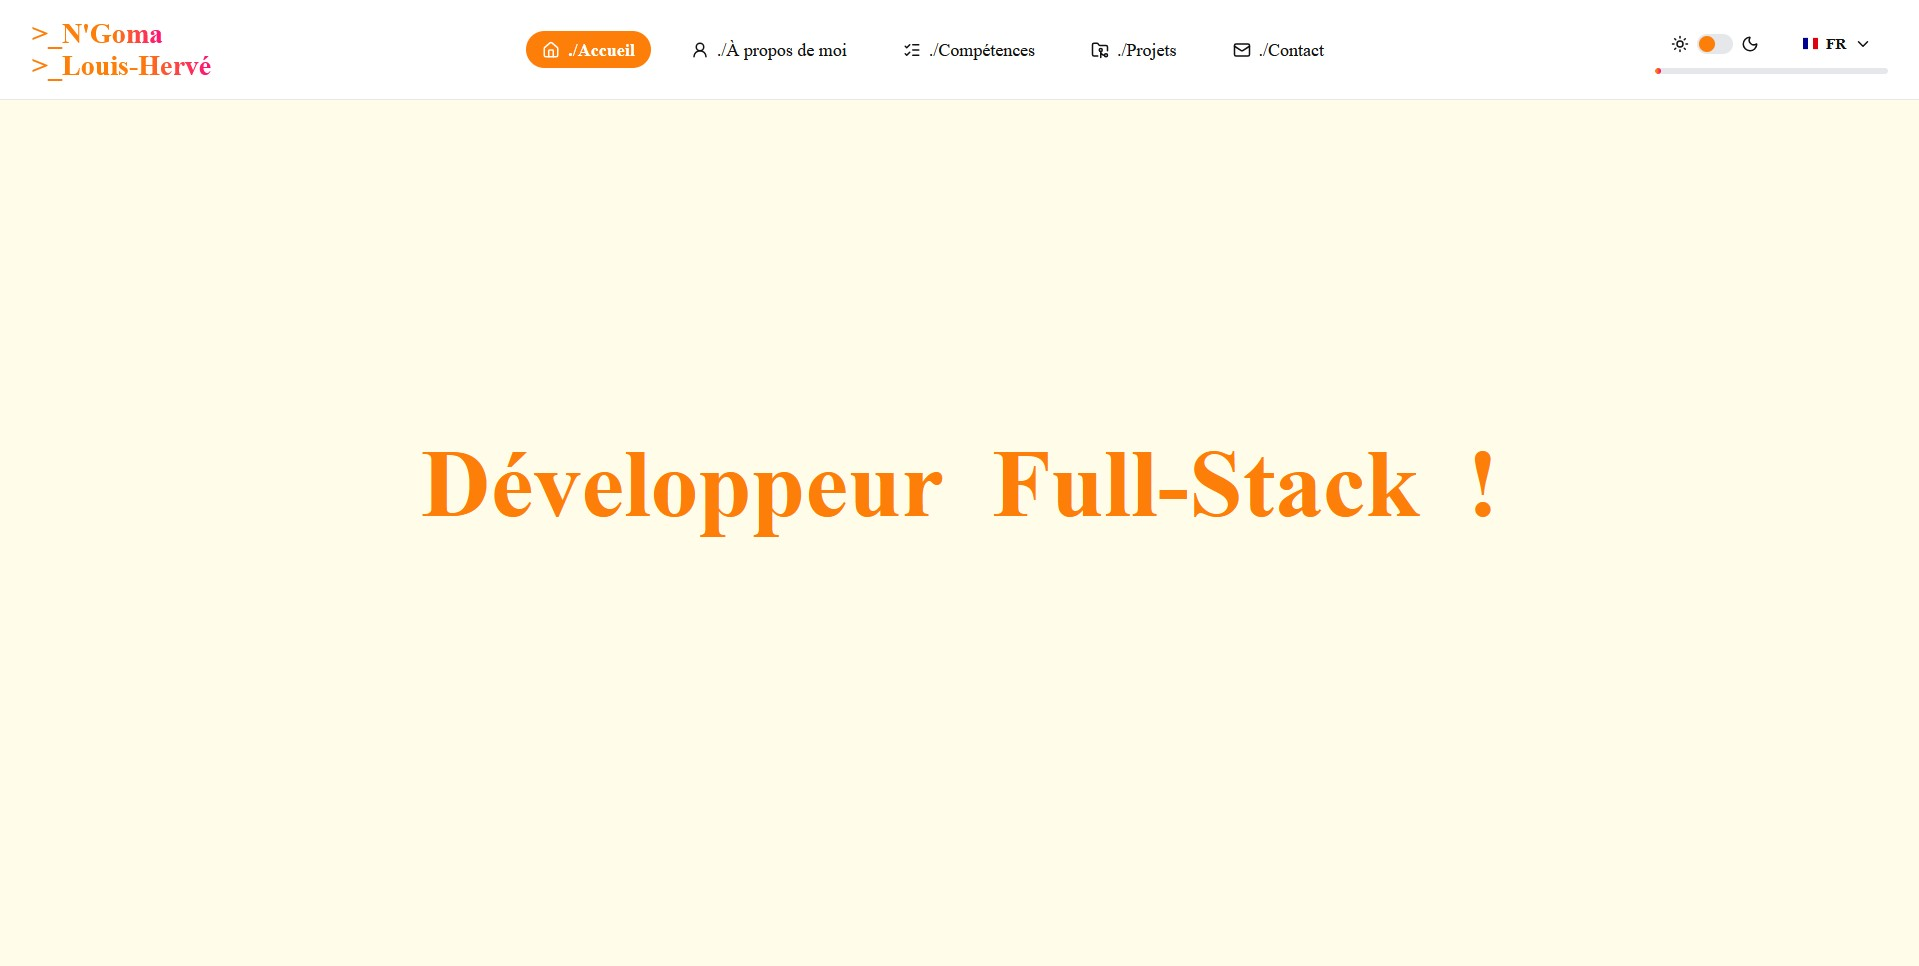
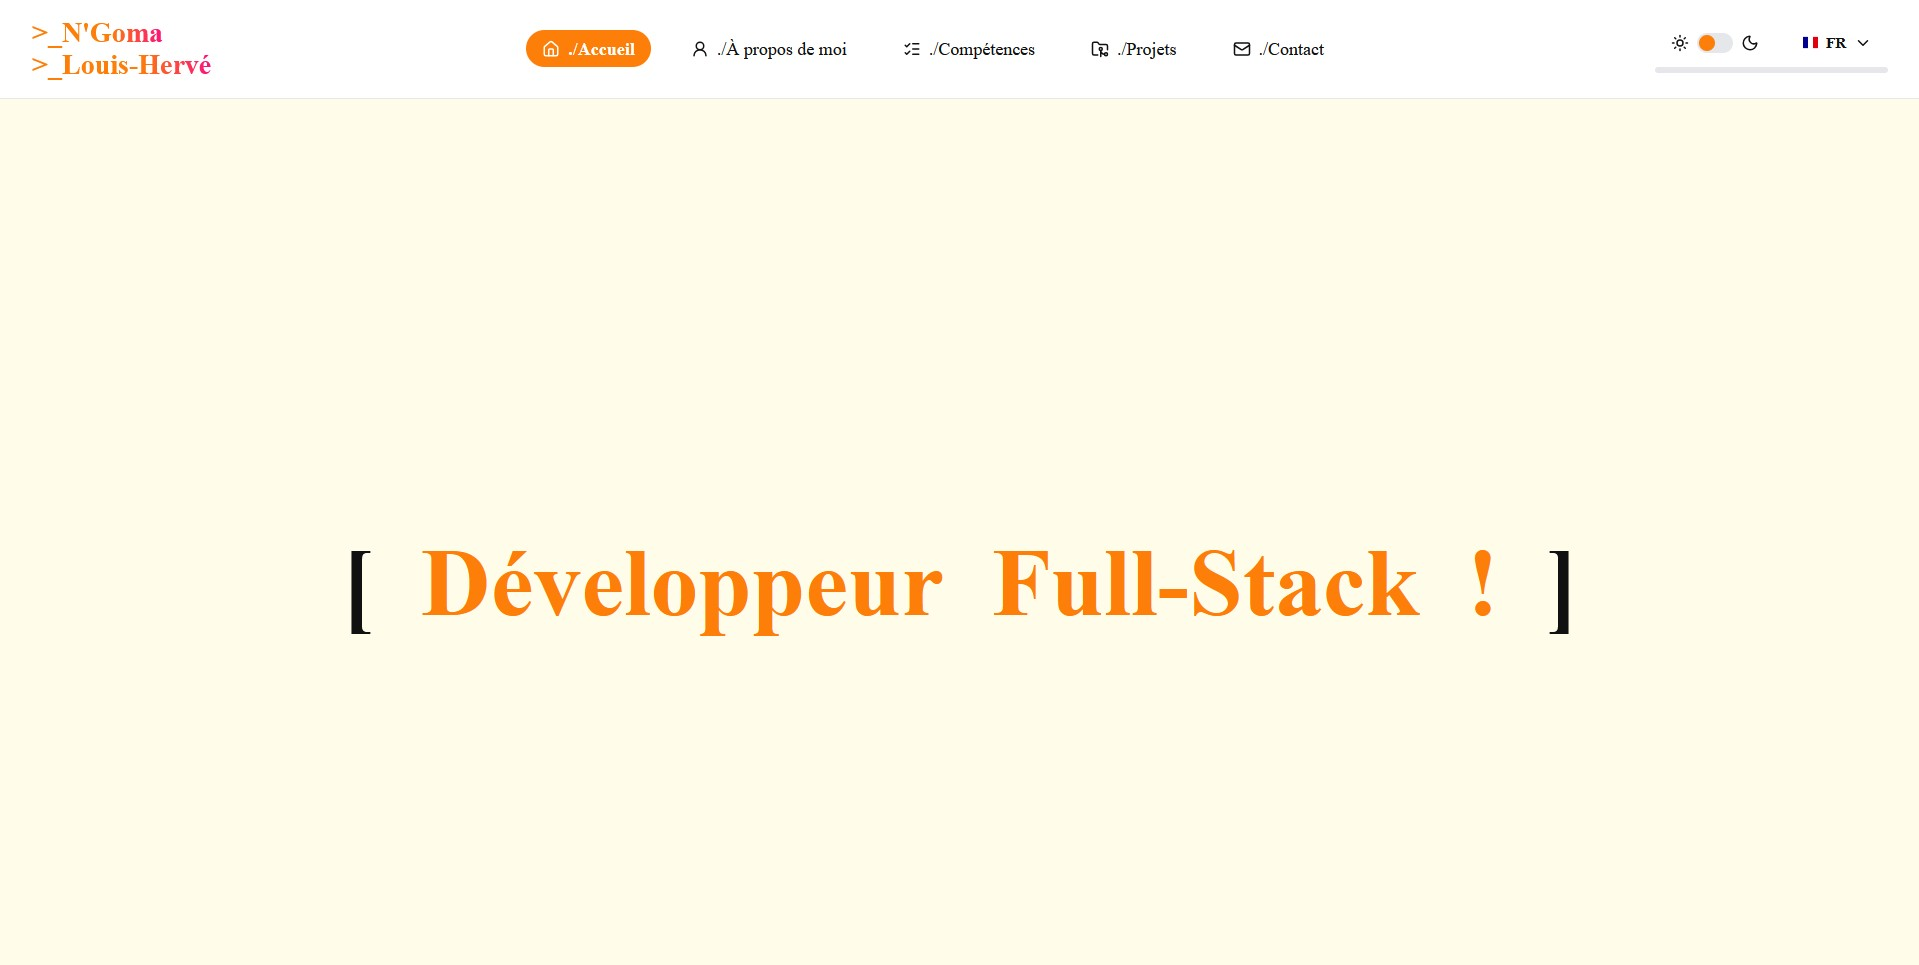
docs: README, CV par langue et correction des redirections Vercel

diff --git a/src/sections/ContactSection.tsx b/src/sections/ContactSection.tsx
@@ -25,19 +25,22 @@ export const ContactSection = () => {
 
 	const translateError = (key?: string) => (key ? t(key, CONTACT_LIMITS) : undefined);
 
-	const markStarted = () => {
-		if (startedAt.current === null) startedAt.current = Date.now();
+	const clearStatus = () => {
 		setStatus((prev) => (prev === "sending" ? prev : "idle"));
 	};
 
+	const handleFormInput = () => {
+		if (startedAt.current === null) startedAt.current = Date.now();
+	};
+
 	const updateField = (field: keyof ContactFormData) => (value: string) => {
-		markStarted();
+		clearStatus();
 		setFormData((prev) => ({ ...prev, [field]: value }));
 		setErrors((prev) => ({ ...prev, [field]: undefined }));
 	};
 
 	const updateAttachments = (files: File[]) => {
-		markStarted();
+		clearStatus();
 		setAttachments(files);
 		setErrors((prev) => ({ ...prev, attachments: undefined }));
 	};
@@ -92,7 +95,7 @@ export const ContactSection = () => {
 		<section id="contact" className={styles.section}>
 			<SectionTitle>{t("sections.contact")}</SectionTitle>
 			<TerminalCard title={t("contact.cardTitle")}>
-				<form className={styles.form} onSubmit={handleSubmit} noValidate>
+				<form className={styles.form} onSubmit={handleSubmit} onInput={handleFormInput} noValidate>
 					<div className={styles.honeypot} aria-hidden="true">
 						<label>
 							Website

diff --git a/index.html b/index.html
@@ -1,10 +1,22 @@
 <!doctype html>
-<html lang="en">
+<html lang="fr">
 	<head>
 		<meta charset="UTF-8" />
-		<link rel="icon" type="image/svg+xml" href="/favicon/extraterm-orange.svg" />
 		<meta name="viewport" content="width=device-width, initial-scale=1.0" />
-		<title>Hervé N'Goma</title>
+		<link rel="icon" type="image/svg+xml" href="/favicon/extraterm-orange.svg" />
+		<title>Hervé N'Goma — Développeur Full Stack</title>
+		<meta
+			name="description"
+			content="Portfolio de Hervé N'Goma, développeur Full Stack certifié. Découvrez mes compétences et mes projets."
+		/>
+		<meta name="theme-color" content="#fd7e08" />
+		<link rel="canonical" href="https://herve-ngoma.dev/" />
+		<meta property="og:type" content="website" />
+		<meta property="og:title" content="Hervé N'Goma — Développeur Full Stack" />
+		<meta property="og:description" content="Portfolio de Hervé N'Goma, développeur Full Stack certifié. Découvrez mes compétences et mes projets." />
+		<meta property="og:url" content="https://herve-ngoma.dev/" />
+		<meta property="og:image" content="https://herve-ngoma.dev/preview/og-image.png" />
+		<meta name="twitter:card" content="summary_large_image" />
 	</head>
 	<body>
 		<div id="root"></div>

diff --git a/src/sections/AboutSection.tsx b/src/sections/AboutSection.tsx
@@ -5,9 +5,18 @@ import { TerminalCard } from "../components/TerminalCard/TerminalCard";
 import { SectionTitle } from "../components/SectionTitle/SectionTitle";
 import { useTranslation } from "react-i18next";
 import styles from "./AboutSection.module.css";
+import { useLanguage } from "../context/useLanguage";
+import type { Language } from "../types/language";
+
+const CV_FILES: Record<Language, string> = {
+	fr: "/cv/CV-Portfolio-Developpeur-Web-fr.pdf",
+	en: "/cv/CV-Portfolio-Developpeur-Web-en.pdf",
+	pt: "/cv/CV-Portfolio-Developpeur-Web-pt.pdf",
+};
 
 export const AboutSection = () => {
     const { t } = useTranslation();
+    const { language } = useLanguage();
 
 	return (
 		<section id="about" className={styles.section}>
@@ -27,7 +36,7 @@ export const AboutSection = () => {
 					</a>
 				</div>
 
-				<a href="/cv/CV_NGoma_Louis-Herve.pdf" download className={styles.cvButton}>
+				<a href={CV_FILES[language]} download className={styles.cvButton}>
 					<Download size={18} />
 					{t("about.button")}
 				</a>

diff --git a/src/context/LanguageProvider.tsx b/src/context/LanguageProvider.tsx
@@ -4,6 +4,12 @@ import type { Language } from "../types/language";
 import { LanguageContext } from "./LanguageContext";
 import i18next from "../i18n/config";
 
+const HTML_LANG: Record<Language, string> = {
+	fr: "fr",
+	en: "en",
+	pt: "pt-PT",
+};
+
 interface LanguageProviderProps {
 	children: ReactNode;
 }
@@ -16,7 +22,11 @@ export const LanguageProvider = ({ children }: LanguageProviderProps) => {
 	};
 
     useEffect(() => {
-		i18next.changeLanguage(language);
+		document.documentElement.lang = HTML_LANG[language];
+
+		i18next.changeLanguage(language).then(() => {
+			document.title = i18next.t("meta.title");
+		});
 	}, [language]);
 
 	return <LanguageContext.Provider value={{ language, setLanguage }}>{children}</LanguageContext.Provider>;

diff --git a/README.md b/README.md
@@ -1,75 +1,115 @@
-# React + TypeScript + Vite
+# Portfolio — Hervé N'Goma
 
-This template provides a minimal setup to get React working in Vite with HMR and some ESLint rules.
+Portfolio de développeur Full Stack, réalisé en **React** et **TypeScript** (c'est mon premier projet TypeScript). Il présente mon parcours, mes compétences et six de mes projets.
 
-Currently, two official plugins are available:
+🔗 **Site en ligne : [herve-ngoma.dev](https://herve-ngoma.dev)**
 
-- [@vitejs/plugin-react](https://github.com/vitejs/vite-plugin-react/blob/main/packages/plugin-react) uses [Oxc](https://oxc.rs)
-- [@vitejs/plugin-react-swc](https://github.com/vitejs/vite-plugin-react/blob/main/packages/plugin-react-swc) uses [SWC](https://swc.rs/)
+![Aperçu — thème sombre](src/assets/images/portfolioDev/dark1.jpg)
+![Aperçu — thème clair](src/assets/images/portfolioDev/light1.jpg)
 
-## React Compiler
+## Fonctionnalités
 
-The React Compiler is not enabled on this template because of its impact on dev & build performances. To add it, see [this documentation](https://react.dev/learn/react-compiler/installation).
+- **Trilingue** : français, anglais, portugais (Portugal), avec `<html lang>` et titre de page mis à jour
+- **Thème clair / sombre** basé sur des variables CSS
+- **Header fixe** avec détection de la section visible, barre de progression du scroll et menu hamburger sur mobile
+- **Section Projets** : cartes à onglets (description, technologies, liens), carousel d'images et fenêtre d'agrandissement
+- **Formulaire de contact** avec labels flottants, validation, pièces jointes (PDF, images, texte) et envoi d'email via une fonction serverless
+- **Protection anti-spam** : champ piège (honeypot), délai minimum, filtre d'adresses jetables, validation refaite côté serveur
+- **Responsive** et **accessible** (rôles ARIA, navigation clavier, respect de `prefers-reduced-motion`)
+- **Page d'erreur** (404 / 500) dont le code et le message s'adaptent à l'erreur
 
-## Expanding the ESLint configuration
+## Stack technique
 
-If you are developing a production application, we recommend updating the configuration to enable type-aware lint rules:
+| Domaine | Technologies |
+|---|---|
+| Interface | React, TypeScript, Vite, CSS Modules |
+| Routage | React Router |
+| Traductions | i18next, react-i18next |
+| Icônes | lucide-react, react-country-flag |
+| Serveur | Fonction serverless Vercel (`api/contact.ts`), Resend |
+| Hébergement | Vercel |
+| Outils | pnpm, ESLint |
 
-```js
-export default defineConfig([
-  globalIgnores(['dist']),
-  {
-    files: ['**/*.{ts,tsx}'],
-    extends: [
-      // Other configs...
+## Choix techniques
 
-      // Remove tseslint.configs.recommended and replace with this
-      tseslint.configs.recommendedTypeChecked,
-      // Alternatively, use this for stricter rules
-      tseslint.configs.strictTypeChecked,
-      // Optionally, add this for stylistic rules
-      tseslint.configs.stylisticTypeChecked,
+- **Context API** pour le thème et la langue, avec un hook dédié par contexte (`useTheme`, `useLanguage`)
+- **Hooks personnalisés** : `useActiveSection` (IntersectionObserver), `useScrollProgress`, `useWordCycle`, `useEyeTracking`
+- **Thématisation par `data-theme`** sur `<html>` : un seul jeu de variables CSS par thème, sans logique JavaScript dans les composants
+- **Cartes à hauteur constante** : les panneaux d'onglets sont superposés dans la même cellule de grille, la carte prend la hauteur du plus grand
+- **Fenêtre d'agrandissement** rendue avec `createPortal`, fermeture par clic extérieur ou touche Échap
+- **Validation partagée dans l'esprit** : le navigateur guide l'utilisateur, le serveur revérifie tout (types de fichiers, taille, format d'email)
 
-      // Other configs...
-    ],
-    languageOptions: {
-      parserOptions: {
-        project: ['./tsconfig.node.json', './tsconfig.app.json'],
-        tsconfigRootDir: import.meta.dirname,
-      },
-      // other options...
-    },
-  },
-])
+## Lancer le projet en local
 
+Prérequis : [Node.js](https://nodejs.org) et [pnpm](https://pnpm.io).
+
+```bash
+git clone https://github.com/HNGA91/Portfolio_Dev.git
+cd Portfolio_Dev
+pnpm install
+pnpm dev
 ```
 
-You can also install [eslint-plugin-react-x](https://github.com/Rel1cx/eslint-react/tree/main/packages/plugins/eslint-plugin-react-x) and [eslint-plugin-react-dom](https://github.com/Rel1cx/eslint-react/tree/main/packages/plugins/eslint-plugin-react-dom) for React-specific lint rules:
+Cela lance le site, **sans** la fonction d'envoi d'email.
 
-```js
-// eslint.config.js
-import reactX from 'eslint-plugin-react-x'
-import reactDom from 'eslint-plugin-react-dom'
+### Tester le formulaire de contact
 
-export default defineConfig([
-  globalIgnores(['dist']),
-  {
-    files: ['**/*.{ts,tsx}'],
-    extends: [
-      // Other configs...
-      // Enable lint rules for React
-      reactX.configs['recommended-typescript'],
-      // Enable lint rules for React DOM
-      reactDom.configs.recommended,
-    ],
-    languageOptions: {
-      parserOptions: {
-        project: ['./tsconfig.node.json', './tsconfig.app.json'],
-        tsconfigRootDir: import.meta.dirname,
-      },
-      // other options...
-    },
-  },
-])
+La fonction `api/contact.ts` a besoin de la CLI Vercel et de trois variables d'environnement :
+
+| Variable | Rôle |
+|---|---|
+| `RESEND_API_KEY` | Clé d'API Resend |
+| `CONTACT_TO` | Adresse qui reçoit les messages |
+| `CONTACT_FROM` | Expéditeur, par exemple `Portfolio <onboarding@resend.dev>` |
+
+```bash
+npm i -g vercel
+vercel login
+vercel link
+vercel env add RESEND_API_KEY development
+vercel env add CONTACT_TO development
+vercel env add CONTACT_FROM development
+vercel dev
+```
+
+`vercel dev` télécharge les variables du projet Vercel, il ne lit pas `.env.local`.
+
+## Scripts
+
+| Commande | Action |
+|---|---|
+| `pnpm dev` | Serveur de développement |
+| `pnpm build` | Vérification TypeScript et build de production |
+| `pnpm lint` | Analyse ESLint |
+| `pnpm preview` | Prévisualisation du build |
+
+## Structure
 
 ```
+api/              Fonction serverless d'envoi d'email
+public/           Fichiers statiques (CV, favicon, image de partage)
+src/
+├── assets/       Icônes et images des projets
+├── components/   Composants réutilisables
+├── context/      Contextes thème et langue
+├── data/         Compétences et projets
+├── hooks/        Hooks personnalisés
+├── i18n/         Configuration et fichiers de traduction
+├── pages/        Page d'erreur
+├── sections/     Sections de la page
+├── styles/       Styles globaux et variables
+├── types/        Types TypeScript
+└── utils/        Fonctions utilitaires
+```
+
+## Déploiement
+
+Hébergé sur Vercel. Les trois variables d'environnement sont à définir pour les environnements Production et Preview. Le fichier `vercel.json` redirige les adresses inconnues vers l'application, qui affiche alors la page d'erreur.
+
+## Licence
+
+Tous droits réservés. Les textes, images et le contenu de ce portfolio m'appartiennent.
+
+## Auteur
+
+Louis-Hervé N'Goma — Développeur Full Stack GitHub : @HNGA91
